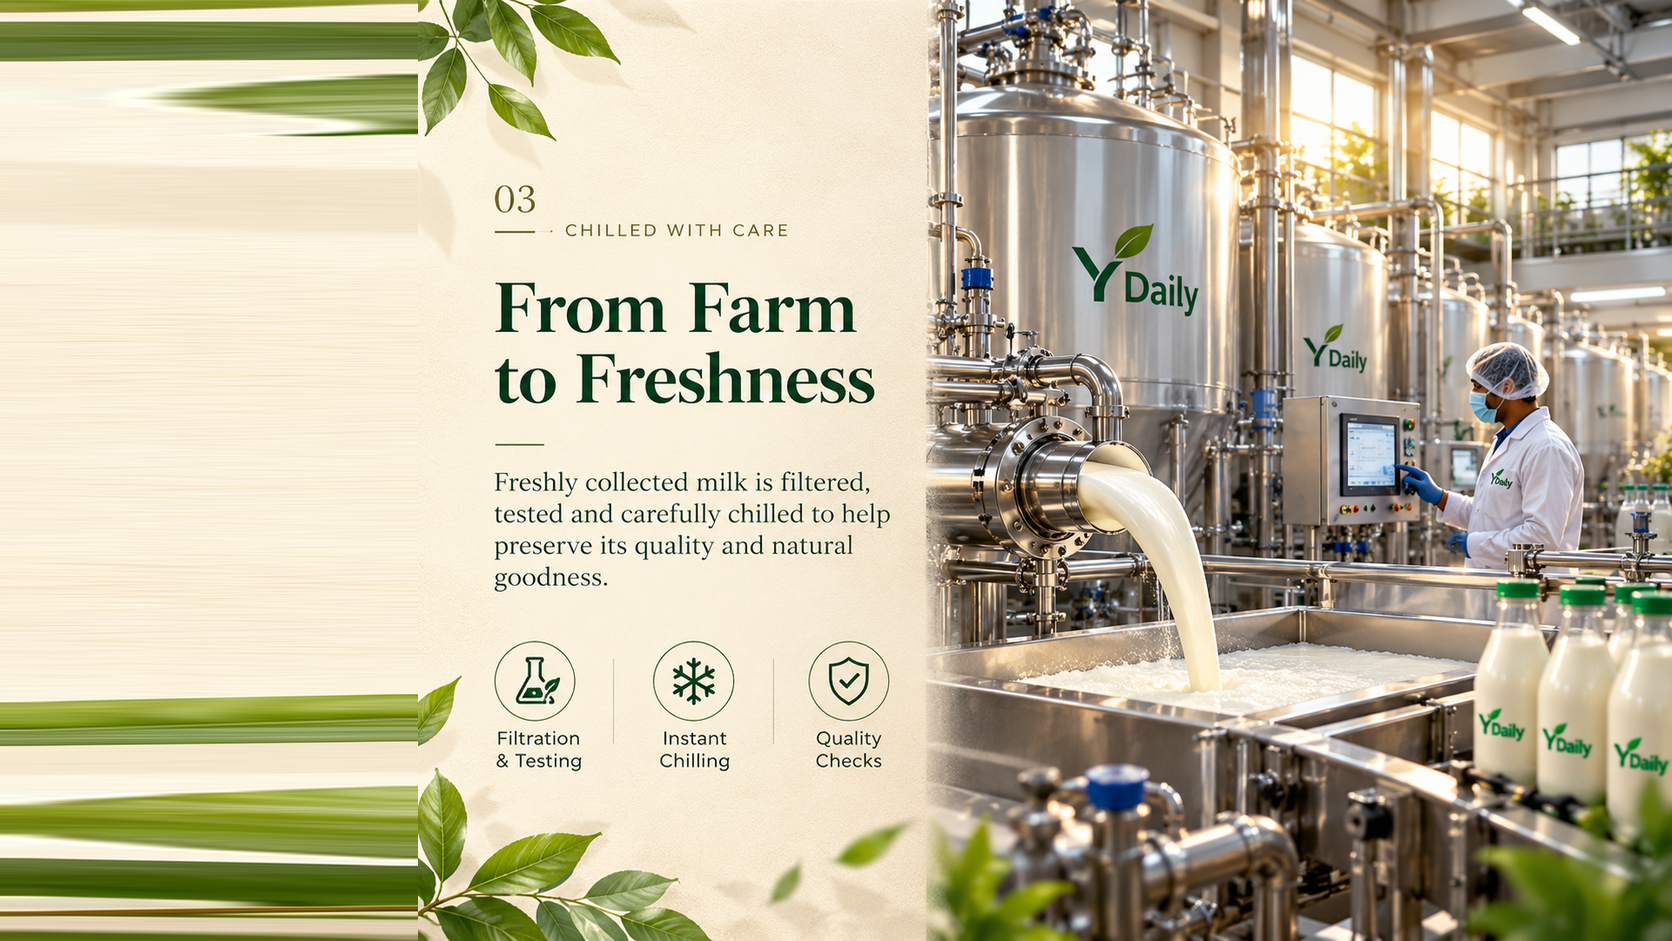
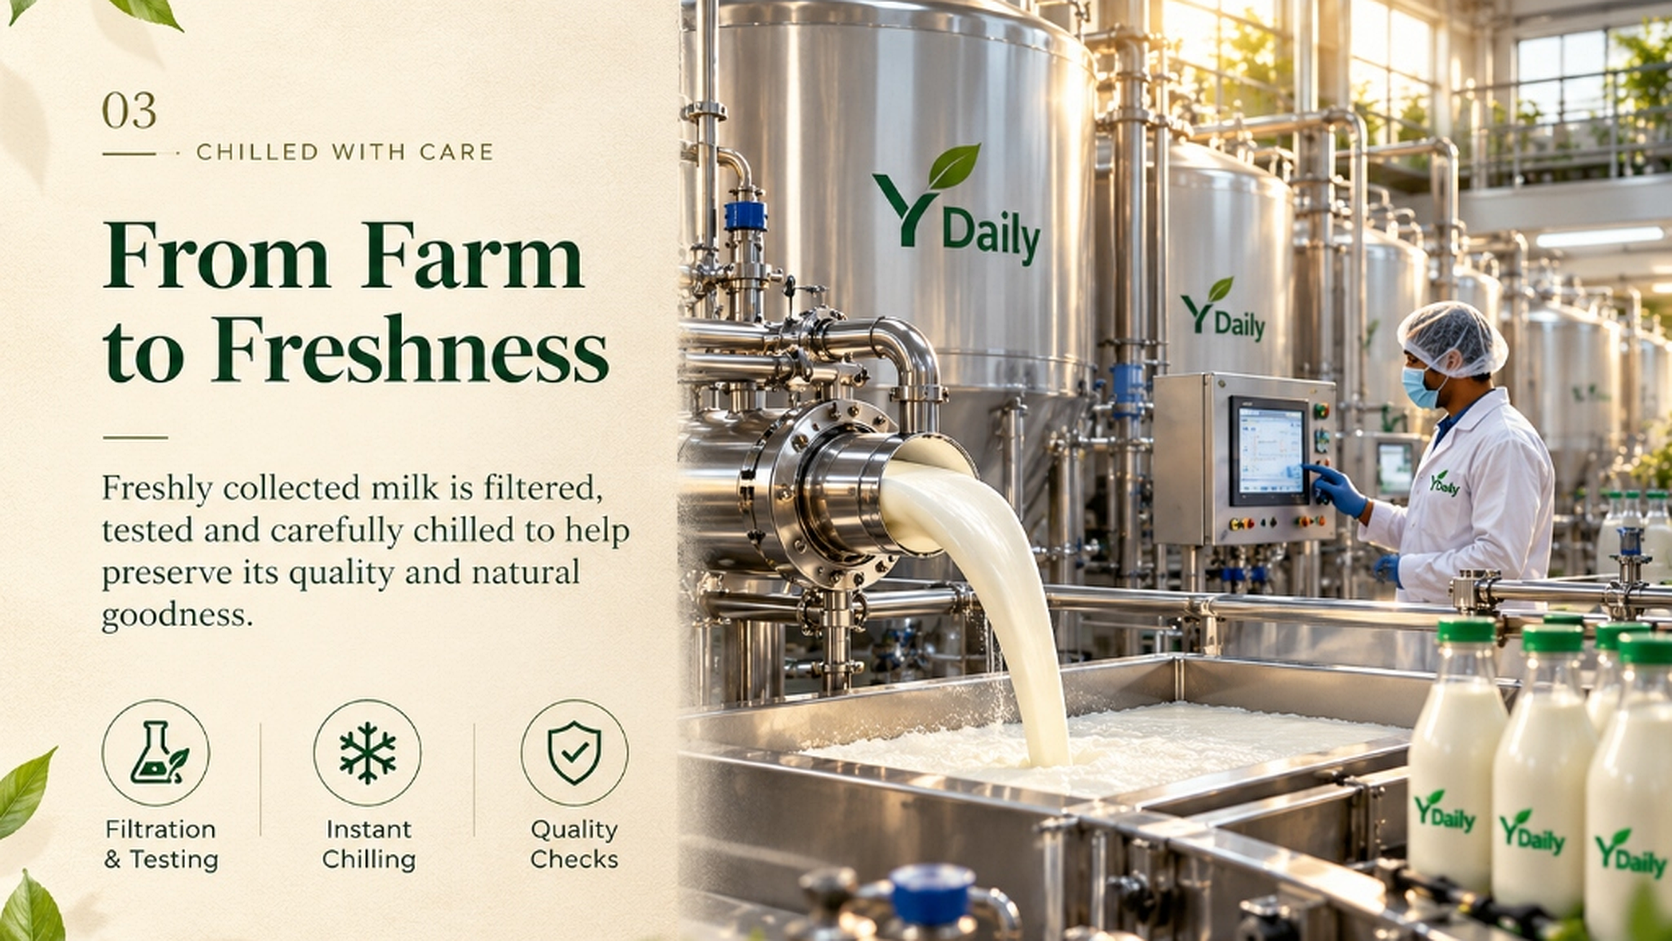
feat(storybook): replace pages 1 and 3 with 4K HD master artwork matching 1672x941 layout

diff --git a/src/components/StoryBookSection.tsx b/src/components/StoryBookSection.tsx
@@ -44,17 +44,17 @@ const CHAPTERS: ChapterData[] = [
   {
     id: 1,
     chapterNumber: "CHAPTER 01",
-    category: "WHERE IT BEGINS",
-    title: "Healthy Cows & Trusted Farms",
+    category: "OUR BEGINNING",
+    title: "Where It Begins",
     subtitle: "Ethical cattle nurturing in natural pastures",
-    image: "/storybook/story_page1.png",
+    image: "/storybook/story_page1_hd.png",
     rightBadge: "Rooted in Ethics",
     yearRange: "HAPPY COWS • SUSTAINABLE FUTURE",
     statNumber: "100%",
     statLabel: "Ethical Grazing & Pasture Fed",
     narrative:
-      "We partner exclusively with local family farmers who raise indigenous Indian cattle with care. The cattle graze freely on organic green fodder, bask in natural sunshine, and live free from hormonal stimulants or synthetic antibiotics.",
-    features: ["Free Range Grazing", "Calf Nurtured First", "Chemical-Free Feed"],
+      "At Y Daily, our story starts with trusted farms, healthy cows and farmers who care for nature. We believe good food begins with a healthy environment.",
+    features: ["Healthy Farms", "Happy Cows", "Naturally Grown"],
   },
   {
     id: 2,
@@ -74,17 +74,17 @@ const CHAPTERS: ChapterData[] = [
   {
     id: 3,
     chapterNumber: "CHAPTER 03",
-    category: "THE CHILLING",
+    category: "CHILLED WITH CARE",
     title: "From Farm to Freshness",
     subtitle: "Rapid thermal drop to 4°C within 15 minutes",
-    image: "/storybook/story_page3.png",
+    image: "/storybook/story_page3_hd.png",
     rightBadge: "Cold-Chain Integrity",
     yearRange: "THERMAL DROP • 4°C IN 15 MINS",
     statNumber: "4°C",
     statLabel: "Immediate Cold Stabilization",
     narrative:
-      "Temperature is the true guardian of milk freshness. Within 15 minutes of milking, the milk is chilled down to 4°C in localized bulk milk coolers, preventing bacterial multiplication while naturally preserving delicate bioactive enzymes.",
-    features: ["Instant Chilling", "Zero Preservatives", "Nutrient Protected"],
+      "Freshly collected milk is filtered, tested and carefully chilled to help preserve its quality and natural goodness.",
+    features: ["Filtration & Testing", "Instant Chilling", "Quality Checks"],
   },
   {
     id: 4,
